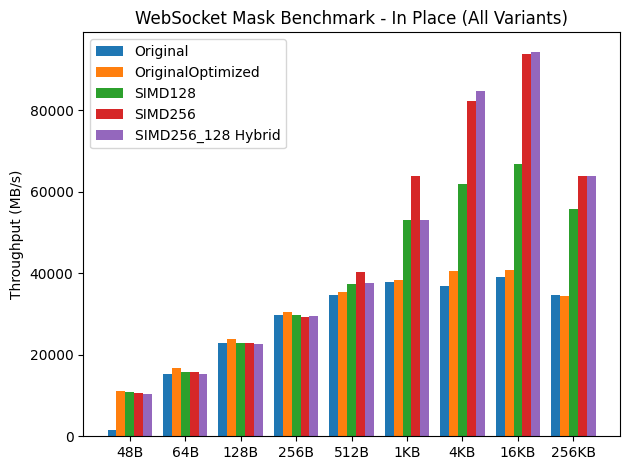
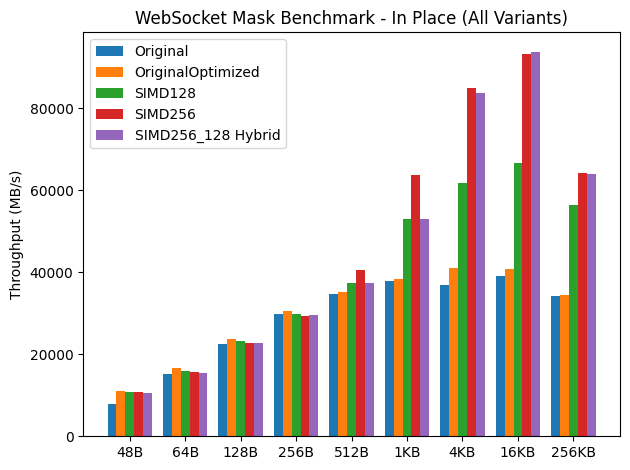
Update benchmark graphs with corrected in-place and streaming results
- Regenerated In-Place benchmark graph with latest measurements
- Regenerated Copy (streaming) benchmark graph
- Updated README benchmark section

diff --git a/mask_original.go b/mask_original.go
@@ -35,7 +35,7 @@ func MaskXOR_Original(b []byte, key []byte) {
 		b = b[64:]
 	}
 
-	if len(b) >= 8 {
+	for len(b) >= 8 {
 		v := binary.LittleEndian.Uint64(b[:8])
 		binary.LittleEndian.PutUint64(b[:8], v^key64)
 		b = b[8:]

diff --git a/README.md b/README.md
@@ -22,7 +22,7 @@ goarch: amd64
 
 ## In-Place Benchmark (Hot Buffer)
 
-* **Original is massively slower at 48B.**
+* Original is slower at smaller payloads <64B.
 * OriginalOptimized quickly catches up.
 * SIMD128 starts pulling ahead at 512B+.
 * SIMD256 dominates strongly from 1KB upward.
@@ -87,54 +87,54 @@ goos: linux
 goarch: amd64
 pkg: github.com/EetuAH/go-ws-mask-simd-bench
 cpu: 13th Gen Intel(R) Core(TM) i9-13900H
-BenchmarkMaskOriginal_48B-20               	34071099	        29.62 ns/op	1620.76 MB/s	       0 B/op	       0 allocs/op
-BenchmarkMaskOriginal_64B-20               	289673161	         4.189 ns/op	15276.87 MB/s	       0 B/op	       0 allocs/op
-BenchmarkMaskOriginal_128B-20              	213572990	         5.569 ns/op	22982.57 MB/s	       0 B/op	       0 allocs/op
-BenchmarkMaskOriginal_256B-20              	139787794	         8.582 ns/op	29830.10 MB/s	       0 B/op	       0 allocs/op
-BenchmarkMaskOriginal_512B-20              	74901933	        14.74 ns/op	34743.74 MB/s	       0 B/op	       0 allocs/op
-BenchmarkMaskOriginal_1KB-20               	42666604	        27.08 ns/op	37809.00 MB/s	       0 B/op	       0 allocs/op
-BenchmarkMaskOriginal_4KB-20               	10785301	       111.4 ns/op	36768.14 MB/s	       0 B/op	       0 allocs/op
-BenchmarkMaskOriginal_16KB-20              	 2853536	       419.9 ns/op	39016.98 MB/s	       0 B/op	       0 allocs/op
-BenchmarkMaskOriginal_256KB-20             	  148568	      7539 ns/op	34772.44 MB/s	       0 B/op	       0 allocs/op
-BenchmarkMaskOriginalOptimized_48B-20      	267460255	         4.323 ns/op	11104.53 MB/s	       0 B/op	       0 allocs/op
-BenchmarkMaskOriginalOptimized_64B-20      	306349160	         3.838 ns/op	16676.32 MB/s	       0 B/op	       0 allocs/op
-BenchmarkMaskOriginalOptimized_128B-20     	222374852	         5.344 ns/op	23951.07 MB/s	       0 B/op	       0 allocs/op
-BenchmarkMaskOriginalOptimized_256B-20     	143018490	         8.390 ns/op	30514.22 MB/s	       0 B/op	       0 allocs/op
-BenchmarkMaskOriginalOptimized_512B-20     	75636919	        14.47 ns/op	35376.35 MB/s	       0 B/op	       0 allocs/op
-BenchmarkMaskOriginalOptimized_1KB-20      	45015630	        26.64 ns/op	38438.68 MB/s	       0 B/op	       0 allocs/op
-BenchmarkMaskOriginalOptimized_4KB-20      	11763145	       101.3 ns/op	40429.53 MB/s	       0 B/op	       0 allocs/op
-BenchmarkMaskOriginalOptimized_16KB-20     	 2977834	       402.2 ns/op	40731.06 MB/s	       0 B/op	       0 allocs/op
-BenchmarkMaskOriginalOptimized_256KB-20    	  158445	      7641 ns/op	34306.47 MB/s	       0 B/op	       0 allocs/op
-BenchmarkMaskSIMD128_48B-20                	268915604	         4.461 ns/op	10761.08 MB/s	       0 B/op	       0 allocs/op
-BenchmarkMaskSIMD128_64B-20                	293037900	         4.052 ns/op	15794.52 MB/s	       0 B/op	       0 allocs/op
-BenchmarkMaskSIMD128_128B-20               	215643660	         5.578 ns/op	22946.22 MB/s	       0 B/op	       0 allocs/op
-BenchmarkMaskSIMD128_256B-20               	138940147	         8.580 ns/op	29835.80 MB/s	       0 B/op	       0 allocs/op
-BenchmarkMaskSIMD128_512B-20               	86917975	        13.70 ns/op	37374.11 MB/s	       0 B/op	       0 allocs/op
-BenchmarkMaskSIMD128_1KB-20                	62050648	        19.28 ns/op	53113.54 MB/s	       0 B/op	       0 allocs/op
-BenchmarkMaskSIMD128_4KB-20                	18244286	        66.08 ns/op	61984.51 MB/s	       0 B/op	       0 allocs/op
-BenchmarkMaskSIMD128_16KB-20               	 4848559	       245.3 ns/op	66780.88 MB/s	       0 B/op	       0 allocs/op
-BenchmarkMaskSIMD128_256KB-20              	  252157	      4710 ns/op	55657.12 MB/s	       0 B/op	       0 allocs/op
-BenchmarkMaskSIMD256_48B-20                	263053634	         4.530 ns/op	10597.11 MB/s	       0 B/op	       0 allocs/op
-BenchmarkMaskSIMD256_64B-20                	287505613	         4.056 ns/op	15778.96 MB/s	       0 B/op	       0 allocs/op
-BenchmarkMaskSIMD256_128B-20               	212372400	         5.623 ns/op	22764.50 MB/s	       0 B/op	       0 allocs/op
-BenchmarkMaskSIMD256_256B-20               	137645920	         8.755 ns/op	29240.81 MB/s	       0 B/op	       0 allocs/op
-BenchmarkMaskSIMD256_512B-20               	94967655	        12.68 ns/op	40390.47 MB/s	       0 B/op	       0 allocs/op
-BenchmarkMaskSIMD256_1KB-20                	66643185	        16.07 ns/op	63737.30 MB/s	       0 B/op	       0 allocs/op
-BenchmarkMaskSIMD256_4KB-20                	24771553	        49.81 ns/op	82240.59 MB/s	       0 B/op	       0 allocs/op
-BenchmarkMaskSIMD256_16KB-20               	 6792140	       174.6 ns/op	93861.45 MB/s	       0 B/op	       0 allocs/op
-BenchmarkMaskSIMD256_256KB-20              	  285396	      4112 ns/op	63746.28 MB/s	       0 B/op	       0 allocs/op
-BenchmarkMaskSIMD256_128_48B-20            	257787620	         4.615 ns/op	10399.97 MB/s	       0 B/op	       0 allocs/op
-BenchmarkMaskSIMD256_128_64B-20            	284436734	         4.165 ns/op	15365.42 MB/s	       0 B/op	       0 allocs/op
-BenchmarkMaskSIMD256_128_128B-20           	210889581	         5.668 ns/op	22583.87 MB/s	       0 B/op	       0 allocs/op
-BenchmarkMaskSIMD256_128_256B-20           	138078789	         8.684 ns/op	29480.23 MB/s	       0 B/op	       0 allocs/op
-BenchmarkMaskSIMD256_128_512B-20           	87974313	        13.63 ns/op	37559.13 MB/s	       0 B/op	       0 allocs/op
-BenchmarkMaskSIMD256_128_1KB-20            	62260396	        19.33 ns/op	52977.41 MB/s	       0 B/op	       0 allocs/op
-BenchmarkMaskSIMD256_128_4KB-20            	24869986	        48.35 ns/op	84708.40 MB/s	       0 B/op	       0 allocs/op
-BenchmarkMaskSIMD256_128_16KB-20           	 6907329	       173.6 ns/op	94360.17 MB/s	       0 B/op	       0 allocs/op
-BenchmarkMaskSIMD256_128_256KB-20          	  292030	      4102 ns/op	63907.70 MB/s	       0 B/op	       0 allocs/op
+BenchmarkMaskOriginal_48B-20               	189498069	         6.163 ns/op	7788.35 MB/s	       0 B/op	       0 allocs/op
+BenchmarkMaskOriginal_64B-20               	278687907	         4.195 ns/op	15256.09 MB/s	       0 B/op	       0 allocs/op
+BenchmarkMaskOriginal_128B-20              	213519146	         5.675 ns/op	22556.11 MB/s	       0 B/op	       0 allocs/op
+BenchmarkMaskOriginal_256B-20              	139013493	         8.622 ns/op	29691.48 MB/s	       0 B/op	       0 allocs/op
+BenchmarkMaskOriginal_512B-20              	81275397	        14.77 ns/op	34675.26 MB/s	       0 B/op	       0 allocs/op
+BenchmarkMaskOriginal_1KB-20               	44272674	        27.05 ns/op	37862.77 MB/s	       0 B/op	       0 allocs/op
+BenchmarkMaskOriginal_4KB-20               	10721649	       111.2 ns/op	36819.80 MB/s	       0 B/op	       0 allocs/op
+BenchmarkMaskOriginal_16KB-20              	 2862544	       419.0 ns/op	39098.89 MB/s	       0 B/op	       0 allocs/op
+BenchmarkMaskOriginal_256KB-20             	  134149	      7666 ns/op	34194.32 MB/s	       0 B/op	       0 allocs/op
+BenchmarkMaskOriginalOptimized_48B-20      	277208416	         4.331 ns/op	11082.88 MB/s	       0 B/op	       0 allocs/op
+BenchmarkMaskOriginalOptimized_64B-20      	312682412	         3.843 ns/op	16654.87 MB/s	       0 B/op	       0 allocs/op
+BenchmarkMaskOriginalOptimized_128B-20     	224248484	         5.384 ns/op	23774.27 MB/s	       0 B/op	       0 allocs/op
+BenchmarkMaskOriginalOptimized_256B-20     	142600744	         8.382 ns/op	30540.02 MB/s	       0 B/op	       0 allocs/op
+BenchmarkMaskOriginalOptimized_512B-20     	82580326	        14.51 ns/op	35296.55 MB/s	       0 B/op	       0 allocs/op
+BenchmarkMaskOriginalOptimized_1KB-20      	44998446	        26.70 ns/op	38355.50 MB/s	       0 B/op	       0 allocs/op
+BenchmarkMaskOriginalOptimized_4KB-20      	11156001	        99.91 ns/op	40998.29 MB/s	       0 B/op	       0 allocs/op
+BenchmarkMaskOriginalOptimized_16KB-20     	 2984728	       401.5 ns/op	40807.46 MB/s	       0 B/op	       0 allocs/op
+BenchmarkMaskOriginalOptimized_256KB-20    	  141429	      7612 ns/op	34438.03 MB/s	       0 B/op	       0 allocs/op
+BenchmarkMaskSIMD128_48B-20                	269355254	         4.456 ns/op	10770.98 MB/s	       0 B/op	       0 allocs/op
+BenchmarkMaskSIMD128_64B-20                	292645604	         4.026 ns/op	15896.69 MB/s	       0 B/op	       0 allocs/op
+BenchmarkMaskSIMD128_128B-20               	216689595	         5.532 ns/op	23137.05 MB/s	       0 B/op	       0 allocs/op
+BenchmarkMaskSIMD128_256B-20               	138223059	         8.584 ns/op	29822.55 MB/s	       0 B/op	       0 allocs/op
+BenchmarkMaskSIMD128_512B-20               	87885271	        13.70 ns/op	37379.96 MB/s	       0 B/op	       0 allocs/op
+BenchmarkMaskSIMD128_1KB-20                	56561389	        19.34 ns/op	52945.92 MB/s	       0 B/op	       0 allocs/op
+BenchmarkMaskSIMD128_4KB-20                	15687424	        66.24 ns/op	61838.28 MB/s	       0 B/op	       0 allocs/op
+BenchmarkMaskSIMD128_16KB-20               	 4899441	       246.2 ns/op	66546.62 MB/s	       0 B/op	       0 allocs/op
+BenchmarkMaskSIMD128_256KB-20              	  231084	      4657 ns/op	56292.66 MB/s	       0 B/op	       0 allocs/op
+BenchmarkMaskSIMD256_48B-20                	266935621	         4.497 ns/op	10674.83 MB/s	       0 B/op	       0 allocs/op
+BenchmarkMaskSIMD256_64B-20                	295264654	         4.057 ns/op	15776.11 MB/s	       0 B/op	       0 allocs/op
+BenchmarkMaskSIMD256_128B-20               	211219422	         5.627 ns/op	22747.64 MB/s	       0 B/op	       0 allocs/op
+BenchmarkMaskSIMD256_256B-20               	137328777	         8.725 ns/op	29339.96 MB/s	       0 B/op	       0 allocs/op
+BenchmarkMaskSIMD256_512B-20               	95643570	        12.63 ns/op	40526.18 MB/s	       0 B/op	       0 allocs/op
+BenchmarkMaskSIMD256_1KB-20                	74856728	        16.07 ns/op	63720.53 MB/s	       0 B/op	       0 allocs/op
+BenchmarkMaskSIMD256_4KB-20                	24874134	        48.29 ns/op	84825.44 MB/s	       0 B/op	       0 allocs/op
+BenchmarkMaskSIMD256_16KB-20               	 6802706	       175.8 ns/op	93194.92 MB/s	       0 B/op	       0 allocs/op
+BenchmarkMaskSIMD256_256KB-20              	  293384	      4089 ns/op	64102.10 MB/s	       0 B/op	       0 allocs/op
+BenchmarkMaskSIMD256_128_48B-20            	260352027	         4.596 ns/op	10443.81 MB/s	       0 B/op	       0 allocs/op
+BenchmarkMaskSIMD256_128_64B-20            	288736432	         4.149 ns/op	15424.66 MB/s	       0 B/op	       0 allocs/op
+BenchmarkMaskSIMD256_128_128B-20           	208576470	         5.650 ns/op	22653.63 MB/s	       0 B/op	       0 allocs/op
+BenchmarkMaskSIMD256_128_256B-20           	138048318	         8.680 ns/op	29493.19 MB/s	       0 B/op	       0 allocs/op
+BenchmarkMaskSIMD256_128_512B-20           	88274712	        13.66 ns/op	37473.70 MB/s	       0 B/op	       0 allocs/op
+BenchmarkMaskSIMD256_128_1KB-20            	61826983	        19.31 ns/op	53029.30 MB/s	       0 B/op	       0 allocs/op
+BenchmarkMaskSIMD256_128_4KB-20            	24635410	        48.93 ns/op	83718.64 MB/s	       0 B/op	       0 allocs/op
+BenchmarkMaskSIMD256_128_16KB-20           	 6892786	       174.7 ns/op	93797.06 MB/s	       0 B/op	       0 allocs/op
+BenchmarkMaskSIMD256_128_256KB-20          	  292480	      4094 ns/op	64035.09 MB/s	       0 B/op	       0 allocs/op
 PASS
-coverage: 82.2% of statements
-ok  	github.com/EetuAH/go-ws-mask-simd-bench	70.462s
+coverage: 82.0% of statements
+ok  	github.com/EetuAH/go-ws-mask-simd-bench	69.070s
 ```
 
 ---
@@ -149,52 +149,52 @@ goos: linux
 goarch: amd64
 pkg: github.com/EetuAH/go-ws-mask-simd-bench
 cpu: 13th Gen Intel(R) Core(TM) i9-13900H
-BenchmarkMaskOriginal_48B-20               	45289194	        26.51 ns/op	1810.50 MB/s	       0 B/op	       0 allocs/op
-BenchmarkMaskOriginal_64B-20               	192080500	         6.253 ns/op	10234.94 MB/s	       0 B/op	       0 allocs/op
-BenchmarkMaskOriginal_128B-20              	149288370	         8.010 ns/op	15981.00 MB/s	       0 B/op	       0 allocs/op
-BenchmarkMaskOriginal_256B-20              	98095380	        12.06 ns/op	21230.31 MB/s	       0 B/op	       0 allocs/op
-BenchmarkMaskOriginal_512B-20              	58255618	        20.50 ns/op	24978.07 MB/s	       0 B/op	       0 allocs/op
-BenchmarkMaskOriginal_1KB-20               	29019222	        34.84 ns/op	29393.29 MB/s	       0 B/op	       0 allocs/op
-BenchmarkMaskOriginal_4KB-20               	 8581066	       140.1 ns/op	29234.98 MB/s	       0 B/op	       0 allocs/op
-BenchmarkMaskOriginal_16KB-20              	 2348900	       511.6 ns/op	32024.63 MB/s	       0 B/op	       0 allocs/op
-BenchmarkMaskOriginal_256KB-20             	   88813	     12698 ns/op	20643.73 MB/s	       0 B/op	       0 allocs/op
-BenchmarkMaskOriginalOptimized_48B-20      	187455247	         6.426 ns/op	7469.59 MB/s	       0 B/op	       0 allocs/op
-BenchmarkMaskOriginalOptimized_64B-20      	204756044	         5.868 ns/op	10906.32 MB/s	       0 B/op	       0 allocs/op
-BenchmarkMaskOriginalOptimized_128B-20     	150110875	         7.947 ns/op	16105.98 MB/s	       0 B/op	       0 allocs/op
-BenchmarkMaskOriginalOptimized_256B-20     	94768135	        11.99 ns/op	21345.19 MB/s	       0 B/op	       0 allocs/op
-BenchmarkMaskOriginalOptimized_512B-20     	59201504	        20.27 ns/op	25256.93 MB/s	       0 B/op	       0 allocs/op
-BenchmarkMaskOriginalOptimized_1KB-20      	34859120	        34.37 ns/op	29790.90 MB/s	       0 B/op	       0 allocs/op
-BenchmarkMaskOriginalOptimized_4KB-20      	 8957829	       134.5 ns/op	30445.41 MB/s	       0 B/op	       0 allocs/op
-BenchmarkMaskOriginalOptimized_16KB-20     	 2432966	       493.1 ns/op	33224.28 MB/s	       0 B/op	       0 allocs/op
-BenchmarkMaskOriginalOptimized_256KB-20    	   94621	     12853 ns/op	20395.17 MB/s	       0 B/op	       0 allocs/op
-BenchmarkMaskSIMD128_48B-20                	184092405	         6.406 ns/op	7493.25 MB/s	       0 B/op	       0 allocs/op
-BenchmarkMaskSIMD128_64B-20                	194893665	         6.163 ns/op	10384.82 MB/s	       0 B/op	       0 allocs/op
-BenchmarkMaskSIMD128_128B-20               	150403326	         7.995 ns/op	16010.83 MB/s	       0 B/op	       0 allocs/op
-BenchmarkMaskSIMD128_256B-20               	97388020	        11.96 ns/op	21397.72 MB/s	       0 B/op	       0 allocs/op
-BenchmarkMaskSIMD128_512B-20               	64244688	        18.96 ns/op	27002.67 MB/s	       0 B/op	       0 allocs/op
-BenchmarkMaskSIMD128_1KB-20                	42085699	        28.48 ns/op	35951.88 MB/s	       0 B/op	       0 allocs/op
-BenchmarkMaskSIMD128_4KB-20                	11745216	       100.6 ns/op	40702.07 MB/s	       0 B/op	       0 allocs/op
-BenchmarkMaskSIMD128_16KB-20               	 3517694	       341.6 ns/op	47957.78 MB/s	       0 B/op	       0 allocs/op
-BenchmarkMaskSIMD128_256KB-20              	  113604	      9883 ns/op	26525.28 MB/s	       0 B/op	       0 allocs/op
-BenchmarkMaskSIMD256_48B-20                	187073743	         6.387 ns/op	7514.82 MB/s	       0 B/op	       0 allocs/op
-BenchmarkMaskSIMD256_64B-20                	196142006	         6.118 ns/op	10460.96 MB/s	       0 B/op	       0 allocs/op
-BenchmarkMaskSIMD256_128B-20               	144540705	         8.352 ns/op	15325.78 MB/s	       0 B/op	       0 allocs/op
-BenchmarkMaskSIMD256_256B-20               	99002716	        12.09 ns/op	21179.19 MB/s	       0 B/op	       0 allocs/op
-BenchmarkMaskSIMD256_512B-20               	 9295951	       123.6 ns/op	4141.25 MB/s	       0 B/op	       0 allocs/op
-BenchmarkMaskSIMD256_1KB-20                	 9007368	       132.5 ns/op	7730.94 MB/s	       0 B/op	       0 allocs/op
-BenchmarkMaskSIMD256_4KB-20                	14802586	        80.73 ns/op	50738.10 MB/s	       0 B/op	       0 allocs/op
-BenchmarkMaskSIMD256_16KB-20               	 4483868	       266.2 ns/op	61540.74 MB/s	       0 B/op	       0 allocs/op
-BenchmarkMaskSIMD256_256KB-20              	  115726	      9197 ns/op	28502.77 MB/s	       0 B/op	       0 allocs/op
-BenchmarkMaskSIMD256_128_48B-20            	180835978	         6.703 ns/op	7161.23 MB/s	       0 B/op	       0 allocs/op
-BenchmarkMaskSIMD256_128_64B-20            	190815795	         6.242 ns/op	10253.58 MB/s	       0 B/op	       0 allocs/op
-BenchmarkMaskSIMD256_128_128B-20           	145451961	         8.249 ns/op	15516.51 MB/s	       0 B/op	       0 allocs/op
-BenchmarkMaskSIMD256_128_256B-20           	100292130	        11.95 ns/op	21421.13 MB/s	       0 B/op	       0 allocs/op
-BenchmarkMaskSIMD256_128_512B-20           	63567884	        18.83 ns/op	27190.95 MB/s	       0 B/op	       0 allocs/op
-BenchmarkMaskSIMD256_128_1KB-20            	42054553	        28.46 ns/op	35978.96 MB/s	       0 B/op	       0 allocs/op
-BenchmarkMaskSIMD256_128_4KB-20            	13163283	        80.11 ns/op	51129.60 MB/s	       0 B/op	       0 allocs/op
-BenchmarkMaskSIMD256_128_16KB-20           	 4526919	       265.1 ns/op	61797.48 MB/s	       0 B/op	       0 allocs/op
-BenchmarkMaskSIMD256_128_256KB-20          	  118902	      9205 ns/op	28478.19 MB/s	       0 B/op	       0 allocs/op
+BenchmarkMaskOriginal_48B-20               	144569544	         8.189 ns/op	5861.74 MB/s	       0 B/op	       0 allocs/op
+BenchmarkMaskOriginal_64B-20               	188478589	         6.510 ns/op	9831.46 MB/s	       0 B/op	       0 allocs/op
+BenchmarkMaskOriginal_128B-20              	147061336	         8.283 ns/op	15453.34 MB/s	       0 B/op	       0 allocs/op
+BenchmarkMaskOriginal_256B-20              	97593014	        12.34 ns/op	20753.63 MB/s	       0 B/op	       0 allocs/op
+BenchmarkMaskOriginal_512B-20              	58636292	        20.62 ns/op	24827.64 MB/s	       0 B/op	       0 allocs/op
+BenchmarkMaskOriginal_1KB-20               	34130131	        35.34 ns/op	28975.90 MB/s	       0 B/op	       0 allocs/op
+BenchmarkMaskOriginal_4KB-20               	 7881733	       145.6 ns/op	28122.23 MB/s	       0 B/op	       0 allocs/op
+BenchmarkMaskOriginal_16KB-20              	 2325588	       509.4 ns/op	32166.23 MB/s	       0 B/op	       0 allocs/op
+BenchmarkMaskOriginal_256KB-20             	   94708	     12702 ns/op	20637.66 MB/s	       0 B/op	       0 allocs/op
+BenchmarkMaskOriginalOptimized_48B-20      	188014878	         6.379 ns/op	7524.41 MB/s	       0 B/op	       0 allocs/op
+BenchmarkMaskOriginalOptimized_64B-20      	204027714	         5.865 ns/op	10913.07 MB/s	       0 B/op	       0 allocs/op
+BenchmarkMaskOriginalOptimized_128B-20     	150967063	         7.949 ns/op	16101.96 MB/s	       0 B/op	       0 allocs/op
+BenchmarkMaskOriginalOptimized_256B-20     	97705269	        11.97 ns/op	21395.14 MB/s	       0 B/op	       0 allocs/op
+BenchmarkMaskOriginalOptimized_512B-20     	59614141	        20.29 ns/op	25237.15 MB/s	       0 B/op	       0 allocs/op
+BenchmarkMaskOriginalOptimized_1KB-20      	34885088	        34.38 ns/op	29781.43 MB/s	       0 B/op	       0 allocs/op
+BenchmarkMaskOriginalOptimized_4KB-20      	 8981322	       133.1 ns/op	30780.93 MB/s	       0 B/op	       0 allocs/op
+BenchmarkMaskOriginalOptimized_16KB-20     	 2397496	       491.4 ns/op	33344.54 MB/s	       0 B/op	       0 allocs/op
+BenchmarkMaskOriginalOptimized_256KB-20    	   83149	     12906 ns/op	20312.27 MB/s	       0 B/op	       0 allocs/op
+BenchmarkMaskSIMD128_48B-20                	186021304	         6.429 ns/op	7466.65 MB/s	       0 B/op	       0 allocs/op
+BenchmarkMaskSIMD128_64B-20                	193218806	         6.169 ns/op	10375.06 MB/s	       0 B/op	       0 allocs/op
+BenchmarkMaskSIMD128_128B-20               	150383638	         7.982 ns/op	16035.97 MB/s	       0 B/op	       0 allocs/op
+BenchmarkMaskSIMD128_256B-20               	96895195	        11.94 ns/op	21436.30 MB/s	       0 B/op	       0 allocs/op
+BenchmarkMaskSIMD128_512B-20               	62828049	        18.72 ns/op	27348.15 MB/s	       0 B/op	       0 allocs/op
+BenchmarkMaskSIMD128_1KB-20                	38543594	        28.57 ns/op	35846.82 MB/s	       0 B/op	       0 allocs/op
+BenchmarkMaskSIMD128_4KB-20                	12044654	        99.97 ns/op	40972.58 MB/s	       0 B/op	       0 allocs/op
+BenchmarkMaskSIMD128_16KB-20               	 3469204	       345.5 ns/op	47416.37 MB/s	       0 B/op	       0 allocs/op
+BenchmarkMaskSIMD128_256KB-20              	  117438	      9822 ns/op	26688.67 MB/s	       0 B/op	       0 allocs/op
+BenchmarkMaskSIMD256_48B-20                	183513603	         6.416 ns/op	7480.89 MB/s	       0 B/op	       0 allocs/op
+BenchmarkMaskSIMD256_64B-20                	195501397	         6.118 ns/op	10461.11 MB/s	       0 B/op	       0 allocs/op
+BenchmarkMaskSIMD256_128B-20               	145997406	         8.208 ns/op	15594.70 MB/s	       0 B/op	       0 allocs/op
+BenchmarkMaskSIMD256_256B-20               	83312516	        12.51 ns/op	20469.68 MB/s	       0 B/op	       0 allocs/op
+BenchmarkMaskSIMD256_512B-20               	 9418728	       114.4 ns/op	4476.28 MB/s	       0 B/op	       0 allocs/op
+BenchmarkMaskSIMD256_1KB-20                	 9004363	       131.7 ns/op	7776.99 MB/s	       0 B/op	       0 allocs/op
+BenchmarkMaskSIMD256_4KB-20                	12990074	        81.10 ns/op	50502.58 MB/s	       0 B/op	       0 allocs/op
+BenchmarkMaskSIMD256_16KB-20               	 4513280	       266.2 ns/op	61554.72 MB/s	       0 B/op	       0 allocs/op
+BenchmarkMaskSIMD256_256KB-20              	  110976	      9464 ns/op	27698.90 MB/s	       0 B/op	       0 allocs/op
+BenchmarkMaskSIMD256_128_48B-20            	176435290	         6.924 ns/op	6932.44 MB/s	       0 B/op	       0 allocs/op
+BenchmarkMaskSIMD256_128_64B-20            	192183895	         6.354 ns/op	10072.29 MB/s	       0 B/op	       0 allocs/op
+BenchmarkMaskSIMD256_128_128B-20           	145739970	         8.228 ns/op	15556.22 MB/s	       0 B/op	       0 allocs/op
+BenchmarkMaskSIMD256_128_256B-20           	100000000	        11.93 ns/op	21455.12 MB/s	       0 B/op	       0 allocs/op
+BenchmarkMaskSIMD256_128_512B-20           	60542701	        18.80 ns/op	27238.19 MB/s	       0 B/op	       0 allocs/op
+BenchmarkMaskSIMD256_128_1KB-20            	41977092	        28.44 ns/op	36002.27 MB/s	       0 B/op	       0 allocs/op
+BenchmarkMaskSIMD256_128_4KB-20            	13992894	        80.33 ns/op	50989.88 MB/s	       0 B/op	       0 allocs/op
+BenchmarkMaskSIMD256_128_16KB-20           	 4526767	       265.4 ns/op	61741.16 MB/s	       0 B/op	       0 allocs/op
+BenchmarkMaskSIMD256_128_256KB-20          	  129128	      9226 ns/op	28414.78 MB/s	       0 B/op	       0 allocs/op
 PASS
-coverage: 82.2% of statements
-ok  	github.com/EetuAH/go-ws-mask-simd-bench	70.856s
+coverage: 82.0% of statements
+ok  	github.com/EetuAH/go-ws-mask-simd-bench	67.038s
 ```
